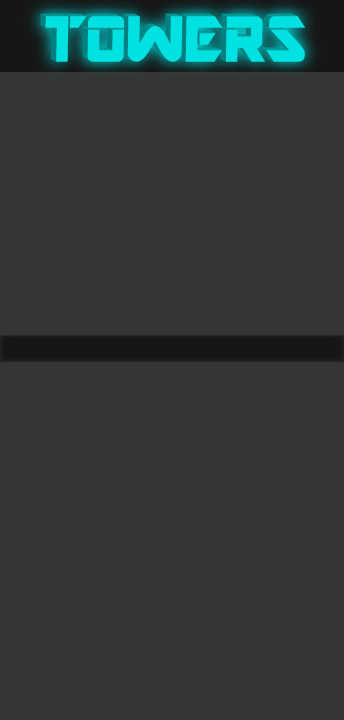
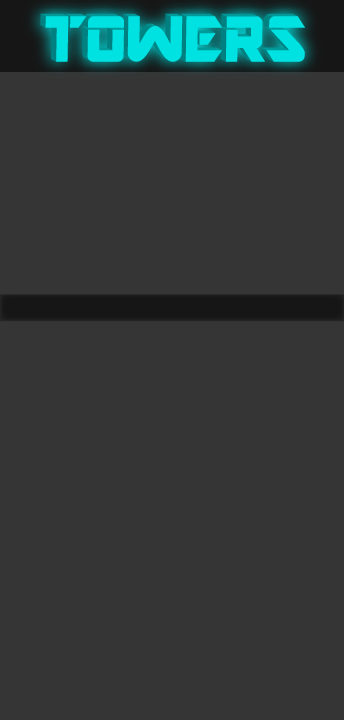
Everything looks hella nice

Changed region(s): [[0.0, 0.3972, 1.0, 0.5194]]

diff --git a/src/com/maTK/DotO/DotO.java b/src/com/maTK/DotO/DotO.java
@@ -16,7 +16,7 @@ public class DotO extends JPanel implements MouseListener, MouseMotionListener, 
 	private final static int SIZEX = 1280;//X size of screen
 	private final static int SIZEY = 720; //Y size of screen
 	private final static double TOWERX = (932/(double)SIZEX);
-	private final static double TOWERY = (68/(double)SIZEY);
+	private final static double TOWERY = (55/(double)SIZEY);
 	private final static int SPRITEX = 100;
 	private final static int SPRITEY = 100;
 	
@@ -29,6 +29,8 @@ public class DotO extends JPanel implements MouseListener, MouseMotionListener, 
 	private String animationSpritePath = "resources/AnimationSprite.png";
 	private String animationSpritePath2 = "resources/FinalBugSheet.png";
 	private String rangeSpritePath = "resources/RangeIndicator.png";
+	private String sellImagePath = "resources/SellButton.png";
+	private String upImagePath = "resources/UpButton.png";
 	
 	private boolean gameStarted = false;
 	
@@ -55,10 +57,12 @@ public class DotO extends JPanel implements MouseListener, MouseMotionListener, 
 	private Image creepSpriteImage;
 	private Image creepSpriteImage2;//with direction
 	private Image rangeIndicatorImage;
+	private Image sellImage;
+	private Image upImage;
 
-	private Font customFont24;
+	private Font customFont18;
 	private Font customFont36;
-	private Font customFont60;
+	private Font customFont28;
 	private Font customFont72;
 	
 	private int counter=0;
@@ -104,6 +108,8 @@ public class DotO extends JPanel implements MouseListener, MouseMotionListener, 
 		creepSpriteImage = loadImage(animationSpritePath);
 		creepSpriteImage2 = loadImage(animationSpritePath2);
 		rangeIndicatorImage = loadImage(rangeSpritePath);
+		sellImage = loadImage(sellImagePath);
+		upImage = loadImage(upImagePath);
 		setBackground(Color.white);
 	    addMouseListener(this);
 	    addMouseMotionListener(this);
@@ -115,9 +121,9 @@ public class DotO extends JPanel implements MouseListener, MouseMotionListener, 
 	{                    
 		try {
 			//create the font to use. Specify the size!
-			customFont24 = Font.createFont(Font.TRUETYPE_FONT, getClass().getResourceAsStream("resources/ARDESTINE.ttf")).deriveFont(24f);
+			customFont18 = Font.createFont(Font.TRUETYPE_FONT, getClass().getResourceAsStream("resources/ARDESTINE.ttf")).deriveFont(18f);
 			customFont36 = Font.createFont(Font.TRUETYPE_FONT, getClass().getResourceAsStream("resources/ARDESTINE.ttf")).deriveFont(36f);
-			customFont60 = Font.createFont(Font.TRUETYPE_FONT, getClass().getResourceAsStream("resources/ARDESTINE.ttf")).deriveFont(60f);
+			customFont28 = Font.createFont(Font.TRUETYPE_FONT, getClass().getResourceAsStream("resources/ARDESTINE.ttf")).deriveFont(28f);
 			customFont72 = Font.createFont(Font.TRUETYPE_FONT, getClass().getResourceAsStream("resources/ARDESTINE.ttf")).deriveFont(72f);
 			GraphicsEnvironment ge = GraphicsEnvironment.getLocalGraphicsEnvironment();
 			//register the font
@@ -190,7 +196,7 @@ public class DotO extends JPanel implements MouseListener, MouseMotionListener, 
 		towerSizeY = (int)((TOWERY*h)+((h-(TOWERY*h))/18)*(2)+((h-(TOWERY*h))/36)) - (int)((TOWERY*h)+((h-(TOWERY*h))/36));
 		if(gameStarted)
 		{
-			tempTower = new Tower(xpos,ypos,type,0, 300, 30, 100);
+			tempTower = new Tower(xpos,ypos,type,1, 300, 30, 100);//xpos, ypos, type, level, range, damage, reload Time
 			tempTower.setRec(xpos*w/SIZEX, ypos*h/SIZEY, towerSizeX, towerSizeY);
 			towers.add(tempTower);
 			//System.out.println("Tower added at x: "+xpos+", y:"+ypos);
@@ -228,7 +234,7 @@ public class DotO extends JPanel implements MouseListener, MouseMotionListener, 
 				{
 					double tempXpos = tempTower.xpos/(double)SIZEX;
 					double tempYpos = tempTower.ypos/(double)SIZEY;
-					g.drawImage(towerSpriteImage, (int)(tempXpos*w)-towerSizeX/2, (int)(tempYpos*h)-towerSizeY/2, (int)((tempXpos)*w)+towerSizeX/2,(int)((tempYpos)*h)+towerSizeY/2, 0, tempTower.type*SPRITEY, SPRITEX, (tempTower.type+1)*SPRITEY,this);
+					g.drawImage(towerSpriteImage, (int)(tempXpos*w)-towerSizeX/2, (int)(tempYpos*h)-towerSizeY/2, (int)((tempXpos)*w)+towerSizeX/2,(int)((tempYpos)*h)+towerSizeY/2, SPRITEX*(tempTower.level-1), tempTower.type*SPRITEY, SPRITEX*tempTower.level, (tempTower.type+1)*SPRITEY,this);
 					if(tempTower.selected)
 					{
 						tempXpos2 = tempXpos;
@@ -241,14 +247,6 @@ public class DotO extends JPanel implements MouseListener, MouseMotionListener, 
 			if(drawSelected)
 			{
 				g.drawImage(rangeIndicatorImage, (int)(tempXpos2*w)-(tempTower.range*w/SIZEX)/2, (int)(tempYpos2*h)-(tempTower.range*h/SIZEY)/2, (int)(tempXpos2*w)+(tempTower.range*w/SIZEX)/2,(int)(tempYpos2*h)+(tempTower.range*h/SIZEY)/2, 0, 0, 1000, 1000,this);
-			}
-
-			if(recSelected!=-1)
-			{		
-				double tempXpos = placeTower.xpos;
-				double tempYpos = placeTower.ypos;
-				g.drawImage(towerSpriteImage2, (int)(tempXpos)-towerSizeX/2, (int)(tempYpos)-towerSizeY/2, (int)(tempXpos)+towerSizeX/2,(int)(tempYpos)+towerSizeY/2, 0, placeTower.type*SPRITEY, SPRITEX, (placeTower.type+1)*SPRITEY,this);
-				g.drawImage(rangeIndicatorImage, (int)(tempXpos)-(placeTower.range*w/SIZEX)/2, (int)(tempYpos)-(placeTower.range*h/SIZEY)/2, (int)(tempXpos)+(placeTower.range*w/SIZEX)/2,(int)(tempYpos)+(placeTower.range*h/SIZEY)/2, 0, 0, 1000, 1000,this);
 			}
 			
 			//Paints Dots to show path
@@ -320,7 +318,8 @@ public class DotO extends JPanel implements MouseListener, MouseMotionListener, 
 		    double sHeight = 720/(double)SIZEY*(double)h;
 		    
 		    g.drawImage(sideImage, (int)sXpos, (int)sYpos, (int)sWidth, (int)sHeight, this);
-		    
+
+			
 			for(int j=0; j<3; j++)//Tower Select Panel
 			{
 				for(int k=0; k<3; k++)
@@ -330,19 +329,72 @@ public class DotO extends JPanel implements MouseListener, MouseMotionListener, 
 					towerRec[3*j+k] = new Rectangle ((int)((TOWERX*w)+((w-(TOWERX*w))/10)*((3*k)+1)),(int)((TOWERY*h)+((h-(TOWERY*h))/18)*(2*j)+((h-(TOWERY*h))/36)),towerSizeX,towerSizeY);
 				}
 			}
+
+			if(recSelected!=-1)//ghost Image
+			{		
+				double tempXpos = placeTower.xpos;
+				double tempYpos = placeTower.ypos;
+				g.drawImage(towerSpriteImage2, (int)(tempXpos)-towerSizeX/2, (int)(tempYpos)-towerSizeY/2, (int)(tempXpos)+towerSizeX/2,(int)(tempYpos)+towerSizeY/2, 0, placeTower.type*SPRITEY, SPRITEX, (placeTower.type+1)*SPRITEY,this);
+				g.drawImage(rangeIndicatorImage, (int)(tempXpos)-(placeTower.range*w/SIZEX)/2, (int)(tempYpos)-(placeTower.range*h/SIZEY)/2, (int)(tempXpos)+(placeTower.range*w/SIZEX)/2,(int)(tempYpos)+(placeTower.range*h/SIZEY)/2, 0, 0, 1000, 1000,this);
+			}
 			
 			if(selected)//Selected Tower Stats
 			{
-				double tempXpos = (double)980/(double)SIZEX;
-				double tempYpos = (double)400/(double)SIZEY;
-				g.drawImage(towerSpriteImage, (int)(tempXpos*w)-towerSizeX/2, (int)(tempYpos*h)-towerSizeY/2, (int)((tempXpos)*w)+towerSizeX/2,(int)((tempYpos)*h)+towerSizeY/2, 0, selectTower.type*SPRITEY, SPRITEX, (selectTower.type+1)*SPRITEY,this);
-				tempXpos = (double)1020/(double)SIZEX;
-				tempYpos = (double)410/(double)SIZEY;
+				double scaleX = (double)w/(double)SIZEX;
+				double scaleY = (double)h/(double)SIZEY;
+				double tempXpos = 980;
+				double tempYpos = 350;
+				g.drawImage(towerSpriteImage, (int)(tempXpos*scaleX)-towerSizeX/2, (int)(tempYpos*scaleY)-towerSizeY/2, (int)(tempXpos*scaleX)+towerSizeX/2,(int)(tempYpos*scaleY)+towerSizeY/2, SPRITEX*(selectTower.level-1), selectTower.type*SPRITEY, SPRITEX*selectTower.level, (selectTower.type+1)*SPRITEY,this);
+				tempXpos = 1020;
+				tempYpos = 360;
 				g.setFont(customFont36);
 				g.setColor(Color.black);
-				g.drawString(selectTower.typeString + " Tower", (int)(tempXpos*w), (int) (tempYpos*h));
+				g.drawString(selectTower.typeString + " Tower", (int)(tempXpos*scaleX), (int) (tempYpos*scaleY));
+				g.setFont(customFont18);
+				g.drawString("Level: " + selectTower.level, (int)(950*scaleX), (int) (395*scaleY));
+				g.drawString("Damage: " + selectTower.damage, (int)(950*scaleX), (int) (415*scaleY));
+				g.drawString("Range: " + selectTower.range, (int)(950*scaleX), (int) (435*scaleY));
+				g.drawString(selectTower.phrase1, (int)(1070*scaleX), (int) (395*scaleY));
+				if(selectTower.phrase2 != null)
+				{
+					g.drawString(selectTower.phrase2, (int)(1070*scaleX), (int) (415*scaleY));
+				}
+				tempXpos = 1100;
+				tempYpos = 465;
+				g.drawImage(sellImage, (int)(tempXpos*scaleX)-(int)(148/2*scaleX), (int)(tempYpos*scaleY)-(int)(51/2*scaleY), (int)(tempXpos*scaleX)+(int)(148/2*scaleX),(int)(tempYpos*scaleY)+(int)(51/2*scaleY), 0, 0, 308, 106,this);
+				g.setFont(customFont28);
+				g.setColor(Color.white);
+				int adjust = (int)Math.log10(selectTower.sellPrice + 1);
+				g.drawString("Sell " + selectTower.sellPrice + "g", (int)((1054 - (int)((double)(adjust)*7.5))*scaleX), (int)(473*scaleY));
+				
+				if(selectTower.level<5)
+				{
+					tempXpos = 980;
+					tempYpos = 520;
+					g.drawImage(towerSpriteImage, (int)(tempXpos*scaleX)-towerSizeX/2, (int)(tempYpos*scaleY)-towerSizeY/2, (int)(tempXpos*scaleX)+towerSizeX/2,(int)(tempYpos*scaleY)+towerSizeY/2, SPRITEX*selectTower.level, selectTower.type*SPRITEY, SPRITEX*(selectTower.level+1), (selectTower.type+1)*SPRITEY,this);
+					g.setFont(customFont36);
+					g.setColor(Color.black);
+					tempXpos = 1020;
+					tempYpos = 530;
+					g.drawString("Next Level", (int)(tempXpos*scaleX), (int) (tempYpos*scaleY));
+					g.setFont(customFont18);
+					g.drawString("Level: " + selectTower.level, (int)(950*scaleX), (int) (565*scaleY));
+					g.drawString("Damage: " + selectTower.damage, (int)(950*scaleX), (int) (585*scaleY));
+					g.drawString("Range: " + selectTower.range, (int)(950*scaleX), (int) (605*scaleY));
+					g.drawString(selectTower.phrase1, (int)(1070*scaleX), (int) (565*scaleY));
+					if(selectTower.phrase2 != null)
+					{
+						g.drawString(selectTower.phrase2, (int)(1070*scaleX), (int) (585*scaleY));
+					}				
+					tempXpos = 1100;
+					tempYpos = 635;
+					g.drawImage(upImage, (int)(tempXpos*scaleX)-(int)(210/2*scaleX), (int)(tempYpos*scaleY)-(int)(51/2*scaleY), (int)(tempXpos*scaleX)+(int)(210/2*scaleX),(int)(tempYpos*scaleY)+(int)(51/2*scaleY), 0, 0, 438, 106,this);
+					g.setFont(customFont28);
+					g.setColor(Color.white);
+					adjust = (int)Math.log10(selectTower.upPrice + 1);
+					g.drawString("Upgrade " + selectTower.upPrice + "g", (int)((1025 - (int)((double)(adjust)*7.5))*scaleX), (int)(643*scaleY));
+				}
 			}
-			
 		    counter++;	
 		}
 	}

diff --git a/src/com/maTK/DotO/Tower.java b/src/com/maTK/DotO/Tower.java
@@ -17,9 +17,28 @@ public class Tower {
 	public int reloadCount;//counter of frames between bullets
 	public boolean selected = false;
 	public Rectangle rec;
+	public String phrase1;
+	public String phrase2;
+	
+	public int splashRadius = 1;//radius of projectile splash, default hits only target, splash has much less dmg
+	public int extraGold = 0;//extra gold from creep kill
+	public int extraRange = 0;//extra range of tower
+	public int poisonDmg = 0;//Poison dps
+	public double poisonTime = 0;//duration of poison
+	public double slowPercent = 1;//slow effect, multiplier for creep speed
+	public double slowTime = 0;//duration of slow
+	public int freezeChance = 0;//percent chance of freeze (0-100)
+	public double freezeTime = 0;//duration of freeze
+	public int chainChance = 0;//chance of chain to another creep
+	public int chainRange = 0;//range of chain to another creep
+	public int trueSightRange = 0;//range of tower true sight
+	public int confusionChance = 0;//chance of confusing creep
+	public double confusionTime = 0;//duration of confusion
 	
 	public Tower (int initX, int initY, int t, int l, int r, int dmg, int rT)
 	{
+		upPrice = 300;
+		sellPrice = 30;
 		xpos = initX;
 		ypos = initY;
 		type = t;
@@ -32,22 +51,36 @@ public class Tower {
 		switch(type)
 		{
 			case 0: typeString = "Splash";
+				phrase1 = "Splash Radius: " + splashRadius;
 				break;
 			case 1: typeString = "Gold";
+				phrase1 = "Gold/Kill: " + extraGold;
 				break;
 			case 2: typeString = "Range";
+				phrase1 = "Extra Range: " + extraRange;
 				break;
 			case 3: typeString = "Poison";
+				phrase1 = "Poison Dmg: " + poisonDmg;
+				phrase2 = "Poison Time: " + (int)poisonTime;
 				break;
 			case 4: typeString = "Slow";
+				phrase1 = "Slow Amount: " + (int)((100-(slowPercent*100))) + "%";
+				phrase2 = "Slow Time: " + slowTime;
 				break;
 			case 5: typeString = "Freeze";
+				phrase1 = "Freeze Chance: " + freezeChance + "%";
+				phrase2 = "Freeze Time: " + freezeTime;
 				break;
 			case 6: typeString = "Chain";
+				phrase1 = "Chain Chance: " + chainChance + "%";
+				phrase2 = "Chain Range: " + chainRange;
 				break;
 			case 7: typeString = "Sight";
+				phrase1 = "Sight Range: " + trueSightRange;
 				break;
-			case 8: typeString = "Conf.";
+			case 8: typeString = "Dizzy";
+				phrase1 = "Dizzy Chance: " + confusionChance + "%";
+				phrase2 = "Dizzy Time: " + confusionTime;
 				break;
 		}
 	}
